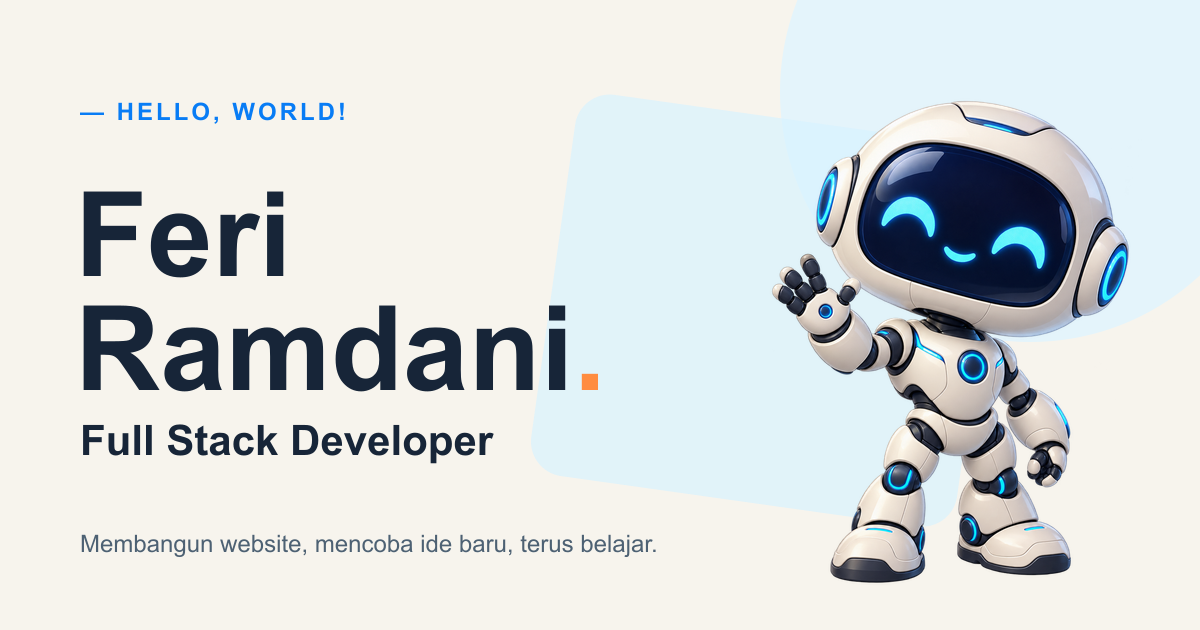
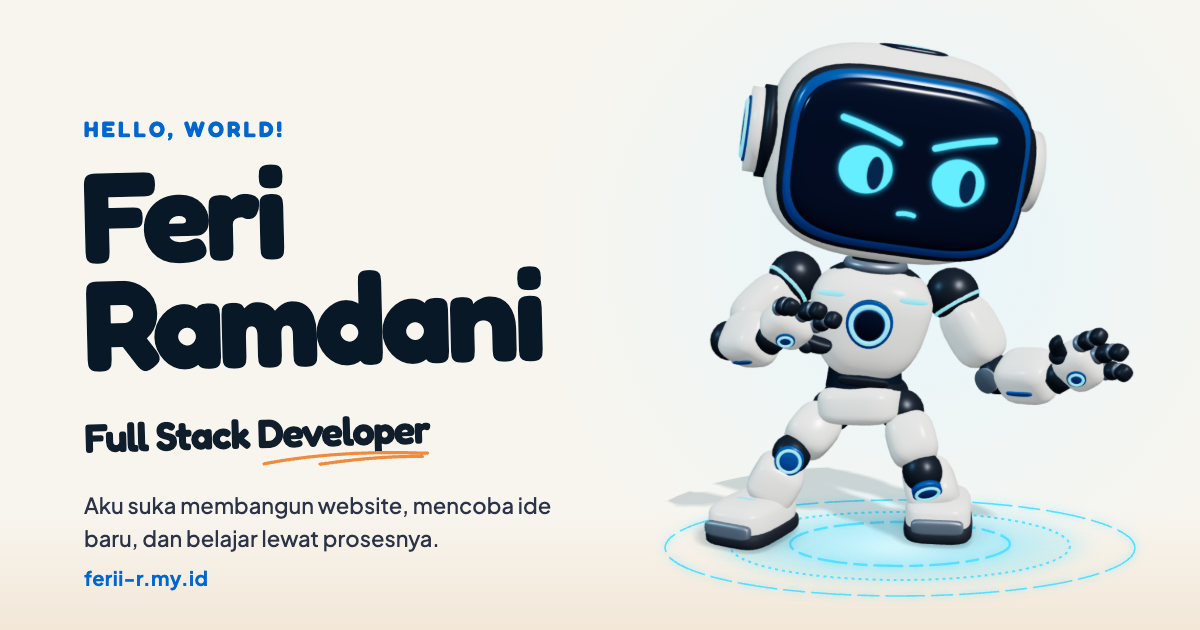
Prepare the site for launch on Vercel
- Allow indexing: robots.txt now allows crawling and points to the
  sitemap, and the page meta is index, follow.
- Keep "Feri Ramdani" two words in the H1 for search engines and screen
  readers.
- Add security headers: CSP, HSTS, nosniff, frame denial, referrer and
  permissions policies. Also drop the X-Powered-By header.
- Rebuild the icon set from the logo font: a 512px icon, favicon.ico,
  a 180px apple-icon and a web manifest with 192/512 icons.
- Replace the share image with the new design and a real 3D robot frame.
- Add a 404 page in the site's style, with the side-eye robot.
- Remove five public images that the page no longer uses.
- Turn off webpack module concatenation, which crashed the production
  build with "Unexpected end of JSON input".

diff --git a/src/app/globals.css b/src/app/globals.css
@@ -6,3 +6,24 @@ body { overflow-x: clip; }
 a { text-decoration: none; }
 button, input, textarea { font: inherit; }
 @media (prefers-reduced-motion: reduce) { html { scroll-behavior: auto; } }
+
+/* 404 (scoped under .not-found: globals.css loads before the design-system sheets) */
+.not-found { display: flex; flex-direction: column; min-height: 100svh; padding: 28px var(--layout-gutter) 40px; background: var(--color-canvas); }
+.not-found .not-found-logo { width: fit-content; font-size: 40px; }
+.not-found-body { flex: 1; display: grid; align-content: center; grid-template-columns: minmax(0, 1fr) auto; align-items: center; gap: 48px; width: min(100%, 960px); margin: 0 auto; }
+.not-found .not-found-eyebrow::before { content: none; }
+.not-found .not-found-title { margin: 10px 0 16px; font-size: clamp(2.6rem, 1.6rem + 3.6vw, 4.6rem); line-height: 1; }
+.not-found-home { display: inline-flex; align-items: center; gap: 10px; margin-top: 28px; }
+.not-found-robot { position: relative; width: clamp(150px, 22vw, 240px); }
+.not-found-robot img { position: relative; z-index: 1; display: block; width: 100%; height: auto; }
+.not-found-portal { display: block; width: 130%; margin: -14% 0 0 -15%; overflow: visible; }
+.not-found-portal ellipse { stroke: #58dfff; stroke-width: 2; stroke-dasharray: 6 2; filter: drop-shadow(0 0 4px rgb(88 223 255 / 80%)); }
+@media (prefers-reduced-motion: no-preference) {
+  .not-found-robot img { animation: not-found-hover 3.2s ease-in-out infinite; }
+  .not-found-portal ellipse { animation: skills-ring-spin 12s linear infinite; }
+}
+@keyframes not-found-hover { 50% { transform: translateY(-10px); } }
+@media (max-width: 767px) {
+  .not-found-body { grid-template-columns: 1fr; justify-items: start; gap: 24px; }
+  .not-found-robot { order: -1; justify-self: center; }
+}

diff --git a/src/app/not-found.jsx b/src/app/not-found.jsx
@@ -1,0 +1,26 @@
+import Image from 'next/image';
+import Link from 'next/link';
+import { ArrowLeft } from 'lucide-react';
+import Eyebrow from '@/components/typography/Eyebrow';
+import Description from '@/components/typography/Description';
+
+export const metadata = { title: 'Halaman nggak ketemu | Feri Ramdani' };
+
+export default function NotFound() {
+  return <main className="not-found">
+    <Link className="brand fp-logo not-found-logo" href="/" aria-label="Feri, ke beranda">feri<span>.</span></Link>
+    <div className="not-found-body">
+      <div className="not-found-copy">
+        <Eyebrow className="not-found-eyebrow">Error 404</Eyebrow>
+        <h1 className="section-title not-found-title">Waduh, nyasar nih</h1>
+        <Description>Halaman yang kamu cari nggak ada, atau mungkin udah pindah. Robotku aja ikut bingung.</Description>
+        <Link className="button button-primary fp-btn fp-btn--primary not-found-home" href="/"><ArrowLeft size={18} aria-hidden="true" /> Balik ke beranda</Link>
+      </div>
+      {/* A real frame of the 3D companion (side-eye, hovering), captured from the live canvas. */}
+      <div className="not-found-robot" aria-hidden="true">
+        <Image src="/images/robot/robot-lost.webp" width={289} height={457} alt="" priority />
+        <svg className="not-found-portal" viewBox="0 0 400 120" fill="none"><ellipse cx="200" cy="60" rx="190" ry="50" pathLength="100" /><ellipse cx="200" cy="61" rx="130" ry="32" pathLength="100" /><ellipse cx="200" cy="62" rx="70" ry="16" pathLength="100" /></svg>
+      </div>
+    </div>
+  </main>;
+}

diff --git a/src/features/portfolio/sections/HeroSection.jsx b/src/features/portfolio/sections/HeroSection.jsx
@@ -11,7 +11,7 @@ export default function HeroSection() {
       <div className="container hero-grid fp-container fp-hero">
         <div className="hero-text fp-hero__copy">
           <Eyebrow className="hero-eyebrow">Hello, World!</Eyebrow>
-          <h1 className="fp-display" id="hero-title"><span>Feri</span><span>Ramdani</span></h1>
+          <h1 className="fp-display" id="hero-title"><span>Feri</span>{' '}<span>Ramdani</span></h1>
           <p className="hero-role"><span>{site.hero.role}</span><svg className="hero-role-underline" viewBox="0 0 170 20" fill="none" aria-hidden="true"><path d="M3 15C50 7 109 5 167 9M59 17c43-5 72-6 103-5" stroke="currentColor" strokeWidth="3.2" strokeLinecap="round" /></svg></p>
           <Description className="hero-copy">{site.hero.intro}</Description>
           <div className="hero-actions fp-row">

diff --git a/src/app/manifest.js b/src/app/manifest.js
@@ -1,0 +1,15 @@
+export default function manifest() {
+  return {
+    name: 'Feri Ramdani | Full Stack Developer',
+    short_name: 'Feri',
+    description: 'Portfolio Feri Ramdani: karya, kemampuan, perjalanan, dan cerita di balik kode.',
+    start_url: '/',
+    display: 'browser',
+    background_color: '#F8F5EF',
+    theme_color: '#081827',
+    icons: [
+      { src: '/icon-192.png', sizes: '192x192', type: 'image/png' },
+      { src: '/icon-512.png', sizes: '512x512', type: 'image/png' },
+    ],
+  };
+}

diff --git a/src/app/layout.jsx b/src/app/layout.jsx
@@ -23,7 +23,7 @@ export const metadata = {
     type: 'website',
     images: [{ url: '/opengraph-image.png', width: 1200, height: 630, alt: 'Feri Ramdani — Full Stack Developer' }],
   },
-  robots: { index: false, follow: false },
+  robots: { index: true, follow: true },
 };
 
 export default function RootLayout({ children }) {

diff --git a/src/app/robots.js b/src/app/robots.js
@@ -1,3 +1,9 @@
+const site = 'https://www.ferii-r.my.id';
+
 export default function robots() {
-  return { rules: { userAgent: '*', disallow: '/' } };
+  return {
+    rules: { userAgent: '*', allow: '/' },
+    sitemap: `${site}/sitemap.xml`,
+    host: site,
+  };
 }

diff --git a/assets/about/README.md b/assets/about/README.md
@@ -11,3 +11,5 @@ Generate one transparent-background web illustration asset inspired by ONLY the 
 Base artwork: `studio-desk-master.png` (1536 × 1024, alpha), unchanged from the generated asset package `feri-portfolio-new-design-assets` (13 Oct 2026, built-in ImageGen, reference `01-hero-about-currently-skills.png`; prompt in that package's `provenance/generation-tasks.json`).
 
 `public/images/about/studio-desk.webp` is `studio-desk-clean.png`: that artwork with the two small orange spark marks on the notebook pages painted out (paper colour), encoded with cwebp q 88. The small labels from the mockup (book spines, mug, notebook notes, sticky note) are real HTML text in `AboutIllustration.jsx`, placed by percent coordinates and angles traced from this canvas. `plant-and-books.png` remains only as the interim footer prop.
+
+> Removed in the v1 launch cleanup: `plant-and-books.png` is no longer used by the page and was deleted from `public/` (recoverable from git history at commit `f173578`).

diff --git a/assets/projects/README.md b/assets/projects/README.md
@@ -25,3 +25,5 @@ Prompt: Use case: stylized-concept. Asset type: transparent portfolio Projects s
 ## Projects header (new design, P01)
 
 `public/images/projects/studio-assistant.webp` (1100 × 733, alpha) comes unchanged from the generated asset package `feri-portfolio-new-design-assets` (built-in ImageGen, reference `03-projects.png`); master `studio-assistant-master.png`. It is a decorative still of the same robot with laptop and browser panels, not the interactive 3D robot. The old `gallery-illustration-v2/v3.webp` files are no longer referenced.
+
+> Removed in the v1 launch cleanup: `gallery-illustration-v2.webp` and `gallery-illustration-v3.webp` are no longer used by the page and were deleted from `public/` (recoverable from git history at commit `f173578`).

diff --git a/assets/footer/README.md b/assets/footer/README.md
@@ -16,3 +16,5 @@ Palette: desaturated misty blue #b5c8cc, soft sage #bccac0, slate blue #759aa5 t
 
 - `public/images/footer/studio-ledge.webp` (U01) and `studio-books-plant.webp` (U02) come from the ImageGen package, unchanged. Spine titles and the animated rim light are SVG in `Footer.jsx`.
 - The package's U03 robot vignette is not used: the real 3D robot lands on a code-drawn portal in the footer instead. `botanical-watercolor.webp` above is no longer used by the page.
+
+> Removed in the v1 launch cleanup: `botanical-watercolor.webp` is no longer used by the page and was deleted from `public/` (recoverable from git history at commit `f173578`).

diff --git a/assets/contact/README.md b/assets/contact/README.md
@@ -9,3 +9,5 @@ Use case: stylized-concept. Asset type: transparent Contact Me portfolio decorat
 ## v1 redesign (package assets)
 
 `public/images/contact/letter-studio.webp` is the T01 letter scene from the ImageGen package, unchanged. Its letter is blank; "Hi, Feri! :)" and the chat-hologram animation are SVG in `ContactSection.jsx`. `envelope.webp` above is no longer used by the page.
+
+> Removed in the v1 launch cleanup: `envelope.webp` is no longer used by the page and was deleted from `public/` (recoverable from git history at commit `f173578`).
